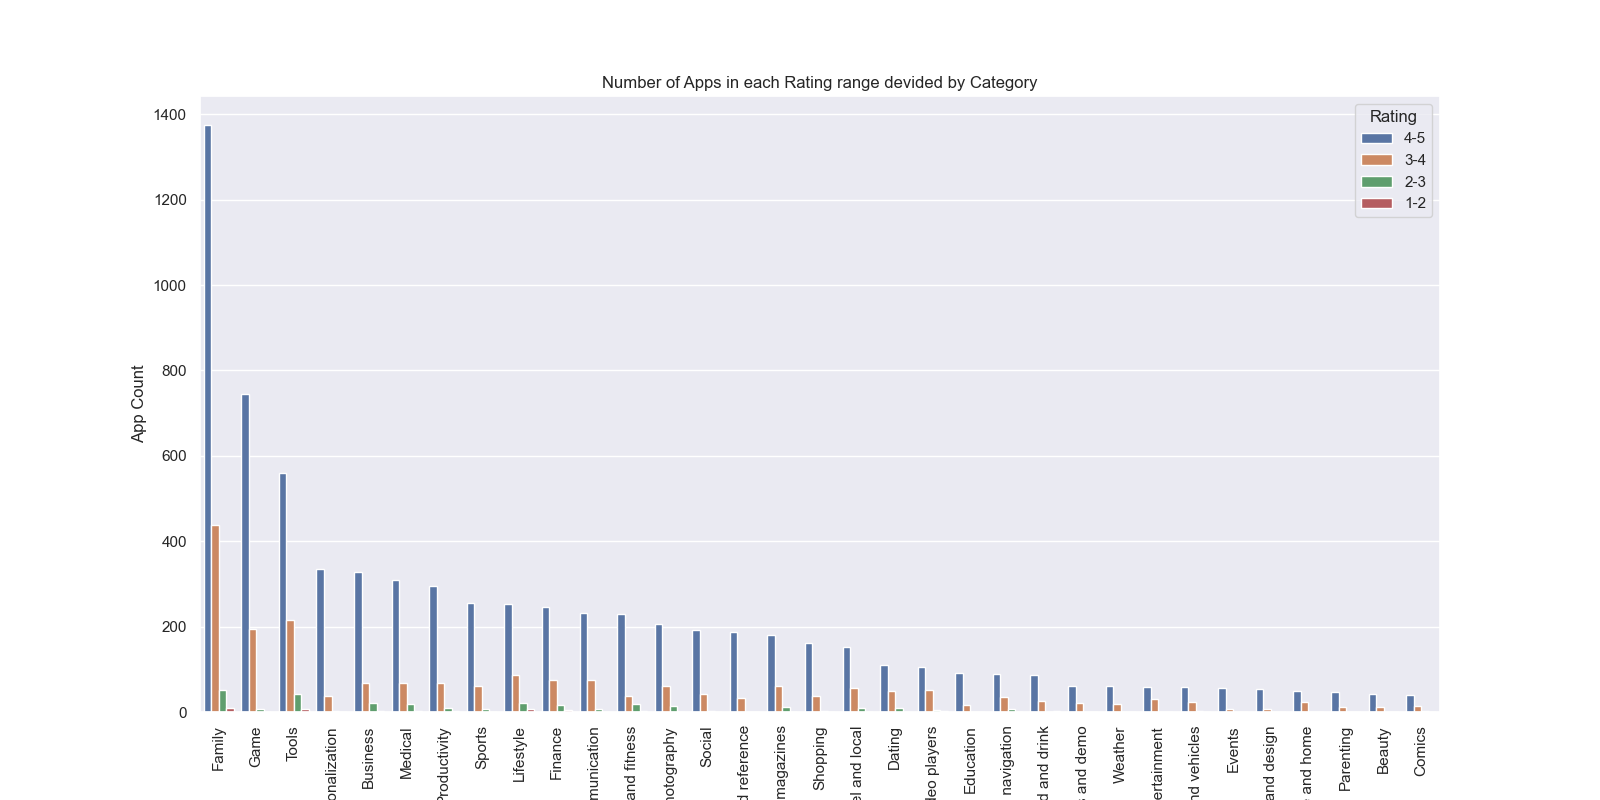
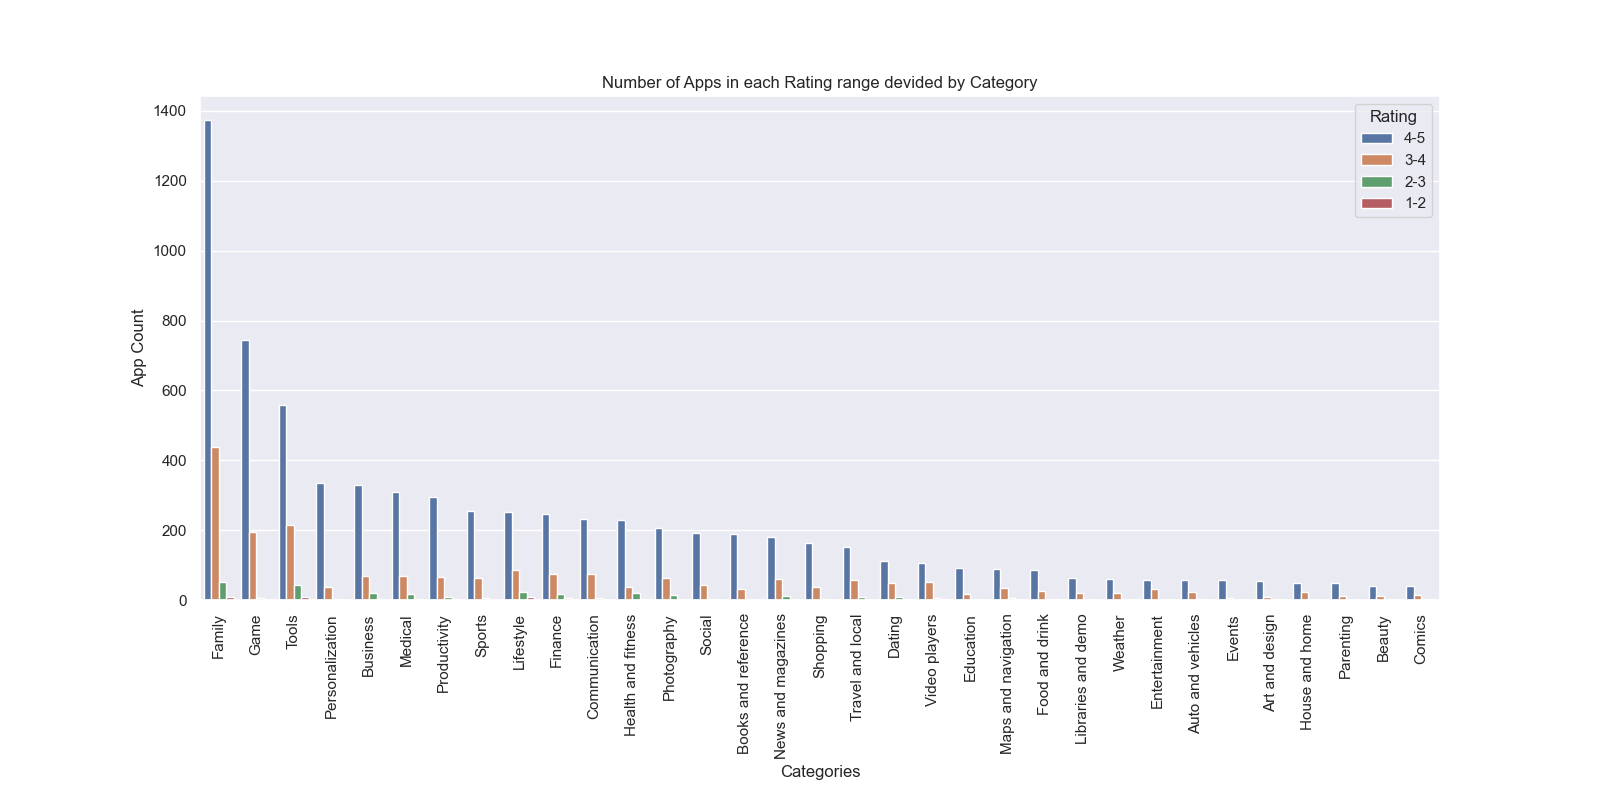
Update all seaborn graphs

diff --git a/progetto_2/src/DataVisualizer.py b/progetto_2/src/DataVisualizer.py
@@ -13,62 +13,56 @@ class DataVisualizer:
 
     def pipeline(self, df, df_all):
         if self.library == 'seaborn':
-            '''self.barh_by_grouping(df, column="Rating", group_by="Category", agg='sum')
+            self.barh_by_grouping(df, column="Rating", group_by="Category", agg='sum')
             self.scatter_plot(df, 'Installs', 'Reviews')
             self.countplot(df, var='Category', hue='Type')
             self.grouped_rating(df, ["Category", "Type"], "Rating")                          #average Rating devided in free and paid Apps for each Category
-            self.grouped_rating(df, "Category", "Rating") '''                                   #average Rating per Category
+            self.grouped_rating(df, "Category", "Rating")                                   #average Rating per Category
             self.popularity_score(df)                                                      #top 10 Apps by Popularity (Rating*Installs)
-            '''self.rating_counter(df, "Rating", "Category")                                    #number of Apps in each Category for each Rating range
+            self.rating_counter(df, "Rating", "Category")                                    #number of Apps in each Category for each Rating range
             self.rating_counter(df, "Rating", "Type")                                        #number of Apps in each Type (free, paid) for each Rating range
-            self.growth_trend(df)'''
+            self.growth_trend(df)
             self.correlation_heatmap(df)
             self.sent_category_hbar(df_all)
 
         elif self.library == 'matplotlib':
-            '''self.barh_by_grouping(df, column="Rating", group_by="Category", agg='sum')
+            self.barh_by_grouping(df, column="Rating", group_by="Category", agg='sum')
             self.scatter_plot(df, 'Installs', 'Reviews')
             self.countplot(df, var='Category', hue='Type')
             self.grouped_rating(df, ["Category", "Type"], "Rating")                          #average Rating devided in free and paid Apps for each Category
-            self.grouped_rating(df, "Category", "Rating")'''                                 #average Rating per Category
+            self.grouped_rating(df, "Category", "Rating")                                 #average Rating per Category
             self.popularity_score(df)                                                        #top 10 Apps by Popularity (Rating*Installs)
-            '''self.rating_counter(df, "Rating", "Category")                                    #number of Apps in each Category for each Rating range
+            self.rating_counter(df, "Rating", "Category")                                    #number of Apps in each Category for each Rating range
             self.rating_counter(df, "Rating", "Type") 
-            self.growth_trend(df)'''
+            self.growth_trend(df)
             self.correlation_heatmap(df)
             self.sent_category_hbar(df_all)
 
-
-    # Creates a horizontal bar chart for a column(column) in a dataframe grouped by another column (group_by) 
-    # using the specified aggregation function.
     def barh_by_grouping(self, df, column, group_by, agg):
-        #column: string label of the values column
-        #group_by: column of the feature (eg. Category), reference of the group by
-        data = df[[group_by, column]].groupby(by=group_by).agg(agg).reset_index()
+        data = df.groupby(by=group_by)[column].agg(agg).reset_index()
         
         fig, ax = plt.subplots(figsize=(15, 6))
 
         if self.library == "seaborn":
-            #FYI Seaborn e matplotlib order opposite ways
-            sns.barplot(data=data.sort_values(by=column, ascending=False), 
+
+            sns.barplot(data=data.sort_values(by=column, ascending=False), #FYI Purtroppo seaborn e matplotlib ordinano i valori in maniera opposta
                         y=group_by,
                         x=column,
                         color="b")
             plt.title(f'{column} by {group_by}')
-            plt.savefig('./database/output/graphs/barplot_sns.png')
+            plt.savefig('./database/output/graphs/barh_by_grouping_sns.png')
             plt.show()
 
         else:
-            # FYI Seaborn e matplotlib order opposite ways
-            data = df[[group_by, column]].groupby(by=group_by).agg(agg).reset_index().sort_values(by=column, ascending=True) 
+            data = df.groupby(by=group_by)[column].agg(agg).reset_index().sort_values(by=column, ascending=True) # FYI Purtroppo seaborn e matplotlib ordinano i valori in maniera opposta
 
             ax.barh(y=group_by, width=column, data=data)
-            
             ax.set(title = f'{column} by {group_by}',
-                    xlabel = column,
-                    ylabel= group_by)
-            plt.savefig('./database/output/graphs/barplot_mat.png')
+                xlabel = column,
+                ylabel= group_by)
+            plt.savefig('./database/output/graphs/barh_by_grouping_mat.png')
             plt.show()
+
 
 
     def countplot(self, df, var:str, hue:str=None, orientation: Literal['orizzontal', 'vertical'] = None):
@@ -97,12 +91,15 @@ class DataVisualizer:
             if not hue:
                 if self.library == 'seaborn':
                     sns.countplot(x=data.items, color='steelblue', order=df[var].value_counts().index)
+                    plt.savefig('./database/output/graphs/countplot_1_sns.png')
                 else:
                     data = df[var].value_counts().sort_values(ascending=True)
                     plt.bar(x=data.index, height=data.values, color='steelblue')
+                    plt.savefig('./database/output/graphs/countplot_1_mat.png')
             else:
                 if self.library == 'seaborn':
                     sns.countplot(x=df[var], hue=df[hue], order=df[var].value_counts().index)
+                    plt.savefig('./database/output/graphs/countplot_2_sns.png')
                 else:
                     data = df.groupby(by=[var, hue])[var, hue].size().unstack(fill_value=0)
                     data = data.sort_values(by=list(data.columns)[0], ascending=False)
@@ -117,18 +114,22 @@ class DataVisualizer:
                         multiplier += 1
 
                     ax.set_xticks(x + width, data.index)
+                    plt.savefig('./database/output/graphs/countplot_2_mat.png')
                     
 
         else:
             if not hue:
                 if self.library == 'seaborn':
                     sns.countplot(y=df[var], color='steelblue', order=df[var].value_counts().index)
+                    plt.savefig('./database/output/graphs/countplot_3_sns.png')
                 else:
                     data = df['Category'].value_counts(ascending=True)
                     plt.barh(y=data.index, width=data.values,color='steelblue')
+                    plt.savefig('./database/output/graphs/countplot_3_mat.png')
             else:
                 if self.library == 'seaborn':
                     sns.countplot(y=df[var], hue=df[hue], order=df[var].value_counts().index)
+                    plt.savefig('./database/output/graphs/countplot_4_sns.png')
                 else:
                     data = df.groupby(by=[var, hue])[var, hue].size().unstack(fill_value=0)
                     data = data.sort_values(by=list(data.columns)[0])
@@ -144,13 +145,11 @@ class DataVisualizer:
 
                     ax.set_yticks(y + height, data.index)
                     ax.set(title=f'Number of apps with for each {var} value')
-
-        plt.savefig('./database/output/graphs/countplot_mat.png')
+                    plt.savefig('./database/output/graphs/countplot_4_mat.png')
         plt.show()
 
         
-    #Creates a scatter plot for two numerical variables in a dataframe
-    #with regression line col1,col2=labelcolumn1,labecolumn2
+# Creates a scatter plot for two numerical variables in a dataframe.
     def scatter_plot(self, df, col1, col2): 
         def rho(col1, col2):
             r = np.corrcoef(col1, col2)
@@ -178,13 +177,13 @@ class DataVisualizer:
             plt.show()
 
 
-                    #SPECIFIC-FUNC
-        # Creates a bar chart for the mean, maximum, and minimum rating of a column in a dataframe grouped by another column.
+# Creates a bar chart for the mean, maximum, and minimum rating of a column in a dataframe grouped by another column.
     def grouped_rating(self, df, by: Literal["Category", "Type"], column, n= None, ascending= False):
     
         df_group = df.groupby(by= by)[column].agg(["mean", "max", "min"]).sort_values(["mean", "max", "min"], ascending= [ascending, ascending, ascending]).head(n)
 
         fig, ax = plt.subplots(figsize= (16, 8))
+        plt.subplots_adjust(bottom = 0.25)
 
         if self.library == "seaborn":
             if type(by) != list:
@@ -200,9 +199,9 @@ class DataVisualizer:
             else:
                 df_group = df.groupby(by)[column].mean().unstack().sort_values(["Free", "Paid"], ascending = [ascending, ascending]).reset_index().head(n)
                 df_melted = pd.melt(df_group, id_vars= "Category", var_name='Type', value_name='Rating')
-                sns.barplot(x= "Category", y= "Rating", data=df_melted, hue= "Type", palette= ["blue", "orange"])
+                sns.barplot(x= "Category", y= "Rating", data=df_melted, hue= "Type", palette= ["blue", "grey"])
                 ax.set_ylabel("Rating")
-                ax.set_xticklabels(df_melted.Category.unique(), rotation=65)
+                ax.set_xticklabels(df_melted.Category.unique(), rotation=90)
                 ax.set_title("Average Rating of free and paid Apps in each Category")
                 ax.legend()
                 plt.savefig('./database/output/graphs/Type_distribution_by_category_sns.png')
@@ -227,7 +226,7 @@ class DataVisualizer:
                 plt.bar(x - bar_width / 2, y_free, bar_width, color= "steelblue", label="Free")
                 plt.bar(x + bar_width / 2, y_paid, bar_width, color= "orange", label="Paid")
                 plt.ylabel("Rating")
-                plt.xticks(x, df_group.index, rotation= 65)
+                plt.xticks(x, df_group.index, rotation= 90)
                 plt.title("Average Rating of free and paid Apps in each Category")
                 plt.legend()
                 plt.savefig('./database/output/graphs/Type_distribution_by_category_mat.png')
@@ -235,9 +234,8 @@ class DataVisualizer:
         plt.show()
         
 
-                    #SPECIFIC-FUNC
-    # Computes the popularity score for each app in a dataframe based on its rating and number
-    # of installs, and creates a bar chart for the top 10 apps by popularity score.  
+# Calculates the popularity score for each app in a dataframe based on its rating and number
+# of installs, and creates a bar chart for the top 10 apps by popularity score.
     def popularity_score(self, df, n= 10, ascending= False, all_info= False, free= "all"):
         df_copy = df.copy()
         df_copy["Popularity"] = round(df_copy.Installs * df_copy.Rating / (int(str(max(df_copy.Installs))[:-3]) if len(str(max(df.Installs))) > 7 else 10), 4)
@@ -251,11 +249,11 @@ class DataVisualizer:
             df_popularity = df_copy.sort_values(by= ["Popularity", "Installs", "Rating"], ascending= [ascending, ascending, ascending])[df_copy.columns if all_info else ["App", "Popularity"]].head(n)
         
         fig, ax = plt.subplots(figsize= (16, 8))
-        plt.subplots_adjust(bottom= 0.25)
+        plt.subplots_adjust(bottom= 0.3)
         
         if self.library == "seaborn":
             sns.barplot(x= df_popularity["App"], y= df_popularity["Popularity"], color='steelblue', width=0.5)
-            ax.set_xticklabels(ax.get_xticklabels(), rotation=45, ha='right')
+            ax.set_xticklabels(ax.get_xticklabels(), rotation= 45, ha='right')
             ax.set(xlabel= "Apps", ylabel= f"Popularity (Installs*Rating/{int(str(max(df.Installs))[:-3]) if len(str(max(df.Installs))) > 7 else 10})")
             ax.set_title("Top 10 Apps by Popularity")
             plt.savefig('./database/output/graphs/popularity_rating_sns.png')
@@ -270,16 +268,14 @@ class DataVisualizer:
         plt.show()
 
 
-                                 #SPECIFIC-FUNC
-    # Creates a bar chart for the number of apps in each rating range divided by a categorical 
-    # variable implemented as category and type. group_by variable may be a list
-    def rating_counter(self, df, column, group_by: Literal["Category", "Type"], n= None, ascending= False):
-        #column: label of the values column
-        #group_by: column of the feature (eg. Category), reference of the group by
-        
+# Creates a bar chart for the number of apps in each rating range divided by a categorical 
+# variable such as category or type.    
+    def rating_counter(self, df, column, by: Literal["Category", "Type"], n= None, ascending= False):
+
         data = df.groupby(by= by)[column].apply(lambda x: pd.cut(x, bins= [1,2,3,4,5]).value_counts()).unstack()
         
         fig, ax = plt.subplots(figsize= (16, 8))
+        plt.subplots_adjust(bottom = 0.25)
 
         if self.library == "seaborn":
             data.columns = ["1-2", "2-3", "3-4", "4-5"]  
@@ -348,8 +344,7 @@ class DataVisualizer:
                 plt.show()  
 
 
-                                 #SPECIFIC-FUNC
-    # Creates a line chart for the number of apps updated each year in different categories.            
+# Creates a line chart for the number of apps updated each year in different categories.
     def growth_trend(self, df):
 
         df = df[['App', 'Category', 'Last Updated']]
@@ -389,9 +384,7 @@ class DataVisualizer:
         plt.show()
 
 
-    # Creates a heatmap of the correlation matrix of a dataframe.
-    # df: dataframe containing the columns between which to do the correlation
-    # output: graph
+# Creates a heatmap for the correlation matrix of a dataframe.
     def correlation_heatmap(self, df):
         std_df = df.corr()
         std_df = std_df.drop(columns=['Unnamed: 0'], index=['Unnamed: 0'])
@@ -404,10 +397,12 @@ class DataVisualizer:
             plt.savefig('./database/output/graphs/correlation_heatmap_sns.png')
         else:
             # Create a colormap
+            # Create a colormap
             cmap = plt.get_cmap('crest')
 
             # Plot the matrix
             fig, ax = plt.subplots(figsize=(15, 6))
+            plt.subplots_adjust(bottom=0.25)
             im = ax.imshow(std_df, cmap=cmap, extent=[0, len(std_df.columns), 0, len(std_df.columns)], origin='lower')
 
             # Set ticks and labels
@@ -415,7 +410,7 @@ class DataVisualizer:
             yticks = np.arange(0.5, len(std_df.columns), 1)
             ax.set_xticks(xticks, minor=False)
             ax.set_yticks(yticks, minor=False)
-            ax.set_xticklabels(std_df.columns, fontsize=15, rotation=65, ha='left')
+            ax.set_xticklabels(std_df.columns, fontsize=15, rotation=90)
             ax.set_yticklabels(std_df.columns, fontsize=15)
 
             # Set colorbar
@@ -437,6 +432,7 @@ class DataVisualizer:
         data = df_all.groupby("Category")["sentiment score"].mean().sort_values(ascending= False)
 
         fig, ax = plt.subplots(figsize= (16, 8))
+        plt.subplots_adjust(bottom = 0.25)
 
         if self.library == "seaborn":
             x = np.arange(len(data.index))
@@ -451,8 +447,6 @@ class DataVisualizer:
             plt.bar(data.index, data.values)
             plt.xticks(rotation= 35, ha= "right", fontsize= 8)
             plt.ylabel("Avg Sentiment")
-            plt.subplots_adjust(bottom= 0.25)
-            plt.title("Average sentiment per Category")
             plt.savefig('./database/output/graphs/sentiment_by_category_mat.png')
-
+        plt.title("Average sentiment per Category")
         plt.show()
